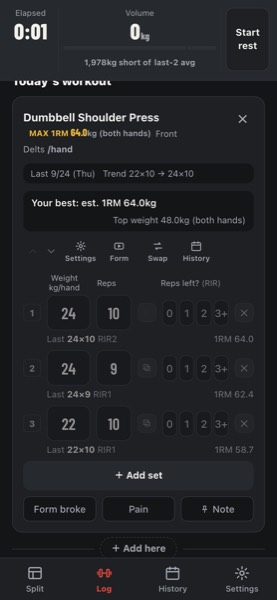
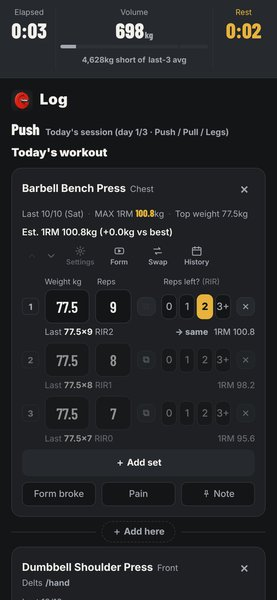
UI レビューの指摘を直し、ガイドの画像を撮り直す
- 試用の上限で止めた下書き(keep)に止めた時刻を持たせ、何日か後に購入して保存しても
  日付・時間・kcal をその時刻で締める。keep の復元では休憩の時計を戻さない
- リマインダー: 選び直した曜日・時刻をオフ→オンで上書きしない。許可を待つ間の profile の巻き戻しを防ぐ
- 履歴の開閉を添字でなく記録の date で覚える(前の日を消すと別の日が開いていた)
- メニューの行の日数は、上の部位の行に同じ日数が出ているときだけ省く
- 初回の種目は「初回」バッジ +「重さを決めて記録」(「初回」が2回出ていた)
- 英語の文言(通知の Today:、PR ×n、Achieved、曜日は3文字と読み上げ名)
- ボリューム推移の useMemo の依存に unit を足す
- guide/*-1〜3.jpg を今の画面で撮り直す
- docs/UIレビュー_2026-10.md に決めたことと残っていることを書く

Claude-Session: https://claude.ai/code/session_016X3QUMbUghUqTPUu17RQiH

diff --git a/index.html b/index.html
@@ -613,13 +613,14 @@ const dbLookup = (name) => {
   return { ...(base || { n: name }), ...(ov || {}) };
 };
 
-// 「片手=ダンベル」判定: 種目マスターに登録があればそれを最優先(保存済みの誤フラグを上書き)
 // 初めての種目のセット数(今日のメニュー・手で足した種目の両方)。以前は1行だけで、ふつう3セットやるのに毎回「＋セットを追加」を
 // 2回押していた。入力しなかった行は RIR が無いので未実施として保存されない(2026-10-18、UI レビュー A1)
 const FIRST_TIME_SETS = 3;
+// 履歴タブの自己ベストを畳んだときに出す種目数(UI レビュー B2)
 const PR_ROWS_FOLDED = 5;
-// 試用の残り回数を分割タブに出し始める残り回数。以前は3回で、保存の瞬間に初めて止められたと感じやすかった(UI レビュー B3)
+// 試用の残り回数を分割タブに出し始める残り回数(=4回目の記録から)。以前は3回で、保存の瞬間に初めて止められたと感じやすかった(UI レビュー B3)
 const TRIAL_NOTICE_FROM = 7;
+// 「片手=ダンベル」判定: 種目マスターに登録があればそれを最優先(保存済みの誤フラグを上書き)
 const resolveIsDb = (name, storedIsDb) => {
   const k = dbLookup(name);
   return k ? !!k.db : !!storedIsDb;
@@ -1031,7 +1032,7 @@ function App() {
   const [volModePicked, setVolMode] = useState(null); // day | total | weekly | muscle(null は自動。下の volMode)
   const [volDayPicked, setVolDay] = useState(null);
   const [showAllPr, setShowAllPr] = useState(false); // 自己ベストの一覧を全部出すか(最初は最近の PR_ROWS_FOLDED 件)
-  const [histOpen, setHistOpen] = useState({}); // 履歴の各日を開いたか(idx → bool)。触っていない日は最新だけ開く
+  const [histOpen, setHistOpen] = useState({}); // 履歴の各日を開いたか(記録の date → bool)。添字だと前の日を消したときにずれる。触っていない日は最新だけ開く
   const [volMuscle, setVolMuscle] = useState("");
   const [openCfg, setOpenCfg] = useState({});
   const [openNote, setOpenNote] = useState({}); // 種目メモの開閉
@@ -1094,9 +1095,10 @@ function App() {
 
   // AIモーダル
   const [draftRestored, setDraftRestored] = useState(false); // 復元した旨の通知
-  // 試用の上限で保存を止めた記録。下書きを24時間で消さない印(UI レビュー B3)。記録が空になったら外す
-  const [draftKeep, setDraftKeep] = useState(false);
-  useEffect(() => { if (today.length === 0) setDraftKeep(false); }, [today.length]);
+  // 試用の上限で保存を止めた記録。下書きを24時間で消さない印(UI レビュー B3)。記録が空になったら外す。
+  // 値は保存を止めた時刻(ms)。何日か後に購入して保存したとき、日付・時間・kcal をこの時刻で締める
+  const [draftKeep, setDraftKeep] = useState(null);
+  useEffect(() => { if (today.length === 0) setDraftKeep(null); }, [today.length]);
   // Apple Watchから合流させた操作のid(src/domain/watch.js)。下書きと一緒に保存し、
   // 保存できてからネイティブのキューを消す(ack)。アプリが落ちても二重に適用しないため。
   const [watchApplied, setWatchApplied] = useState([]);
@@ -1142,7 +1144,7 @@ function App() {
             await store.set(DRAFT_KEY, JSON.stringify({
               today, startAt, restStartAt, watchApplied, restFromWatch: restFromWatchRef.current,
               watchWorkoutFor: watchWorkoutForRef.current, watchRestFor: watchRestForRef.current, savedAt: Date.now(),
-              ...(draftKeep ? { keep: true } : {}),
+              ...(draftKeep ? { keep: draftKeep } : {}),
             }));
           }
           // 合流させたWatchの操作は、下書きに残せてから(または記録が無く捨てた後に)キューから消す
@@ -1228,12 +1230,14 @@ function App() {
         if (d?.value) {
           const draft = JSON.parse(d.value);
           // 試用の上限で保存を止めた記録(keep)は、24時間を過ぎても残す(購入するか消すまで。UI レビュー B3)
-          const fresh = draft.keep === true || (draft.savedAt && (Date.now() - draft.savedAt) < 24 * 3600 * 1000);
+          const keepAt = draft.keep ? (typeof draft.keep === "number" ? draft.keep : draft.savedAt || Date.now()) : null;
+          const fresh = keepAt != null || (draft.savedAt && (Date.now() - draft.savedAt) < 24 * 3600 * 1000);
           if (fresh && Array.isArray(draft.today) && draft.today.length > 0) {
             setToday(draft.today);
             if (draft.startAt) setStartAt(draft.startAt);
-            if (draft.keep === true) setDraftKeep(true);
-            if (draft.restStartAt) setRestStartAt(draft.restStartAt);
+            if (keepAt != null) setDraftKeep(keepAt);
+            // 保存を止めた記録はもう終わったトレーニングなので、休憩の時計は戻さない
+            else if (draft.restStartAt) setRestStartAt(draft.restStartAt);
             if (draft.restFromWatch) restFromWatchRef.current = draft.restFromWatch;
             if (draft.watchWorkoutFor) { watchWorkoutForRef.current = draft.watchWorkoutFor; setWatchLiveFor(draft.watchWorkoutFor); }
             if (draft.watchRestFor) { watchRestForRef.current = draft.watchRestFor; setWatchRestFor(draft.watchRestFor); }
@@ -1466,13 +1470,18 @@ function App() {
   const setReminder = async (patch) => {
     const next = { ...reminder, ...patch };
     if (patch.on && !reminder.on) {
-      // オンにした最初だけ、直近の記録から曜日と時刻を決める(後から変えられる)
-      Object.assign(next, suggestWorkoutReminder(workouts, Date.now()));
+      // 曜日と時刻が既定のまま(一度も選んでいない)なら、直近の記録から決める。
+      // 選び直した後にオフ→オンしても、その選択は上書きしない
+      const def = DEFAULT_PROFILE.workoutReminder;
+      if (reminder.time === def.time && reminder.days.join() === def.days.join()) {
+        Object.assign(next, suggestWorkoutReminder(workouts, Date.now()));
+      }
       const ok = await ensureRestNotificationPermission();
       setRemindPermDenied(!ok);
       if (!ok) return;
     }
-    persist({ profile: { ...profile, workoutReminder: next } });
+    // 許可ダイアログを待つ間に profile が変わっていることがあるので、最新の値に重ねる(toggleHealth と同じ)
+    persistRef.current({ profile: { ...profileRef.current, workoutReminder: next } });
   };
 
   // 使える状態のAudioContextを返す(壊れていれば再生成)
@@ -2986,8 +2995,9 @@ function App() {
   const saveWorkout = async () => {
     if (today.length === 0) return;
     setSaving(true);
-    const end = Date.now();
-    const start = startAt ?? end;
+    // 試用の上限で止めた記録(draftKeep)は、止めた時刻で締める(何日か後に購入して保存しても、その日の記録として残す)
+    const end = draftKeep != null ? Math.min(draftKeep, Date.now()) : Date.now();
+    const start = Math.min(startAt ?? end, end);
     const durationMin = Math.max(1, Math.round((end - start) / 60000));
     const exercises = today.map(ex => ({
       name: ex.name, muscle: ex.muscle || "", bwFactor: ex.bwFactor || 0, isDb: resolveIsDb(ex.name, ex.isDb), rom: resolveRom(ex.name, ex.rom), bwAtLog: profile.bodyweight,
@@ -3020,7 +3030,7 @@ function App() {
     // Web版はpurchasedが常にtrueなのでここには来ない。
     if (isTrialLimitReached(workouts.length, purchased, iapAvailable())) {
       setIapError(""); // 前回開いたときのエラーを持ち越さない
-      setDraftKeep(true); // この記録は下書きの24時間の期限で消さない
+      setDraftKeep(k => k ?? Date.now()); // この記録は下書きの24時間の期限で消さない。2回目以降は最初に止めた時刻のまま
       setShowPaywall(true);
       setSaving(false);
       return;
@@ -3865,7 +3875,7 @@ function App() {
   const volumeTrend = useMemo(() => workouts.map(w => {
     const d = new Date(w.date);
     return { date: `${d.getMonth() + 1}/${d.getDate()}`, 総ボリューム: Math.round(toU(w.exercises.reduce((a, ex) => a + exVolume(ex), 0))) };
-  }), [workouts, profile.bodyweight]);
+  }), [workouts, profile.bodyweight, unit]);
   // 週単位(月曜始まり)の合計ボリューム推移
   const weeklyVolumeTrend = useMemo(() => {
     const buckets = {};
@@ -3899,7 +3909,7 @@ function App() {
   const dayVolumeTrend = useMemo(() => workouts.filter(w => w.session === volDay).map(w => {
     const d = new Date(w.date);
     return { date: `${d.getMonth() + 1}/${d.getDate()}`, ボリューム: Math.round(toU(w.exercises.reduce((a, ex) => a + exVolume(ex), 0))) };
-  }), [workouts, volDay, profile.bodyweight]);
+  }), [workouts, volDay, profile.bodyweight, unit]);
   const muscleVolumeTrend = useMemo(() => {
     if (!volMuscle) return [];
     return workouts.map(w => {
@@ -4664,7 +4674,7 @@ function App() {
                 </>}
               </div>
               {(() => {
-                // 行ごとの「N日前」は、メニューで一番多い日数と違う種目にだけ出す(全部同じなら上の部位の行に1回出ている。UI レビュー A4)
+                // 行ごとの「N日前」は、メニューで一番多い日数と違う種目にだけ出す(上の部位の行に1回出ているので。UI レビュー A4)
                 const daysOf = (it) => {
                   if ((it.baseType ?? it.type) === "new_start") return null;
                   const last = exerciseInsight(it.prescription.name)?.date;
@@ -4672,7 +4682,9 @@ function App() {
                 };
                 const counts = new Map();
                 menuItems.forEach(it => { const d = daysOf(it); if (d != null) counts.set(d, (counts.get(d) || 0) + 1); });
-                const commonDays = [...counts.entries()].sort((a, b) => b[1] - a[1])[0]?.[0];
+                const mode = [...counts.entries()].sort((a, b) => b[1] - a[1])[0]?.[0];
+                // 上の部位の行にも同じ日数が出ているときだけ省く(部位の日数は種目の日数と別物なので、出ていなければ省かない)
+                const commonDays = todayDay?.muscles?.some(m => lastTrained(m) === mode) ? mode : undefined;
                 return menuItems.map((it, i) => {
                 const p = it.prescription;
                 const rowDays = daysOf(it);
@@ -4711,7 +4723,7 @@ function App() {
                     ) : (
                       // 前回の記録が無い種目。以前は「0kg × 0回 × 1セット」と出て、壊れて見えた(UI レビュー A1)
                       <div style={{ fontSize: 13, color: C.muted, lineHeight: 1.6 }}>
-                        {t("menu.reasonNew")}<span style={{ marginLeft: 6 }}>{t("menu.setCount", { n: p.sets })}</span>
+                        {t("menu.firstTime")}<span style={{ marginLeft: 6 }}>{t("menu.setCount", { n: p.sets })}</span>
                       </div>
                     )}
                     {/* 初めての種目は、まずフォームを見てから始められるように(改善要望 10b) */}
@@ -5837,7 +5849,7 @@ function App() {
               })}
               {rows.length > PR_ROWS_FOLDED && (
                 <button onClick={() => setShowAllPr(v => !v)} style={{ ...btn("transparent", C.text), padding: "4px 0", fontSize: 13 }}>
-                  {showAllPr ? t("pr.showLess") : t("pr.showAll", { n: rows.length })}</button>
+                  {showAllPr ? t("pr.showLess", { n: PR_ROWS_FOLDED }) : t("pr.showAll", { n: rows.length })}</button>
               )}
             </div>
             );
@@ -5972,7 +5984,7 @@ function App() {
             const d = editing ? editWorkout.draft : w;
             // 開いた日だけ人体図・画像ボタン・全セットを出す(UI レビュー B2)。以前は全部の日を広げて並べ、12回で縦に約 9,500px あった。
             // 触っていない日は、最新の日と、カレンダーで選んだ日だけ開く
-            const open = editing || (idx in histOpen ? histOpen[idx] : (selectedDate != null || idx === workouts.length - 1));
+            const open = editing || (w.date in histOpen ? histOpen[w.date] : (selectedDate != null || idx === workouts.length - 1));
             // この日に推定1RMの自己ベストを更新した種目の数(表示モードの ⚡ と同じ条件)
             const prCount = open ? 0 : w.exercises.filter(ex => {
               const best = (sets) => sets.reduce((b, s) => (s.warmup || s.assisted || !s.reps) ? b : Math.max(b, est1RM(setEff(ex, s), s.reps)), 0);
@@ -6032,7 +6044,7 @@ function App() {
 
               {/* 時間・ボリュームの行を押すと開く/たたむ */}
               {!editing && (
-                <button onClick={() => setHistOpen(o => ({ ...o, [idx]: !open }))} aria-expanded={open}
+                <button onClick={() => setHistOpen(o => ({ ...o, [w.date]: !open }))} aria-expanded={open}
                   style={{ display: "flex", flexWrap: "wrap", alignItems: "center", gap: "4px 10px", width: "100%", textAlign: "left", background: "transparent", border: "none", padding: "2px 0", marginBottom: open ? 8 : 0,
                     fontSize: 12, color: C.muted, fontFamily: "inherit", cursor: "pointer" }}>
                   {open && w.startAt && <span>{fmtTime(w.startAt)}〜{w.endAt ? fmtTime(w.endAt) : ""}</span>}
@@ -6567,11 +6579,13 @@ function App() {
                   <div role="group" aria-label={t("settings.remindDays")} style={{ display: "flex", gap: 4 }}>
                     {["cal.sun", "cal.mon", "cal.tue", "cal.wed", "cal.thu", "cal.fri", "cal.sat"].map((k, d) => {
                       const on = reminder.days.includes(d);
+                      // 2026-01-04 は日曜。英語の1文字(S/T が2つずつ)では区別できないので、英語は3文字にし、読み上げは曜日の名前にする
+                      const wd = (style) => new Date(2026, 0, 4 + d).toLocaleDateString(lang === "en" ? "en-US" : "ja-JP", { weekday: style });
                       return (
                         // 最後の1日は外せない(全部外すと、オンのまま何も知らせなくなる)
-                        <button key={k} aria-pressed={on} disabled={on && reminder.days.length === 1}
+                        <button key={k} aria-pressed={on} aria-label={wd("long")} disabled={on && reminder.days.length === 1}
                           onClick={() => setReminder({ days: on ? reminder.days.filter(x => x !== d) : [...reminder.days, d] })}
-                          style={{ ...chip(on), flex: 1, padding: "8px 0", textAlign: "center" }}>{t(k)}</button>
+                          style={{ ...chip(on), flex: 1, padding: "8px 0", textAlign: "center" }}>{lang === "en" ? wd("short") : t(k)}</button>
                       );
                     })}
                   </div>

diff --git a/src/domain/i18n.js b/src/domain/i18n.js
@@ -247,6 +247,7 @@ const STRINGS = {
   "menu.reasonPrev":   { ja: "{date}の記録です。",     en: "From your {date} session." },
   "menu.reasonPrevFallback": { ja: "前回",             en: "last" },
   "menu.reasonNew":    { ja: "初回。軽めの重量で動作を確認しましょう。", en: "First time. Start light and check your form." },
+  "menu.firstTime":    { ja: "重さを決めて記録",       en: "Pick a weight and log" },
   "menu.assistedShort": { ja: "補:",                   en: "A:" },
   "menu.warmupShort":  { ja: "W:",                     en: "W:" },
   "menu.perHand":      { ja: "(片手)",                 en: "(per hand)" },
@@ -479,12 +480,12 @@ const STRINGS = {
   "pr.maxWeight":      { ja: "PR(最大重量)",           en: "PR (top weight)" },
   "pr.updatedToday":   { ja: "本日1RM更新",            en: "1RM updated today" },
   "pr.stale":          { ja: "1RM {n}日間未更新",      en: "1RM unchanged for {n}d" },
-  "pr.achievedOnly":  { ja: "{date}に達成",           en: "Set {date}" },
+  "pr.achievedOnly":  { ja: "{date}に達成",           en: "Achieved {date}" },
   "pr.perHand":       { ja: "片手 {w}{unit}",          en: "{w}{unit} per hand" },
   "pr.showAll":       { ja: "すべて表示({n}種目)",   en: "Show all ({n})" },
-  "pr.showLess":      { ja: "最近の5種目だけにする",   en: "Show recent 5" },
+  "pr.showLess":      { ja: "最近の{n}種目だけにする", en: "Show recent {n}" },
   "history.exCount":  { ja: "{n}種目",                 en: "{n} exercises" },
-  "history.prCount":  { ja: "自己ベスト {n}",          en: "{n} PR" },
+  "history.prCount":  { ja: "自己ベスト {n}",          en: "PR ×{n}" },
   "pr.weightByReps":   { ja: "{w}{unit}×{reps}回",     en: "{w}{unit} × {reps}" },
 
   // ---- ペイウォール(記録タブ、試用10回を超えたとき) ----
@@ -553,8 +554,8 @@ const STRINGS = {
   "settings.remindDays": { ja: "曜日",                  en: "Days" },
   "settings.remindTime": { ja: "時刻",                  en: "Time" },
   "remind.body":       { ja: "今日はトレーニングの日。前回の記録を超えにいきましょう。", en: "Training day. Go beat your last session." },
-  "remind.bodyDay":    { ja: "今日は {day} の日。前回の自分を超えにいきましょう。", en: "Today is {day}. Go beat your last session." },
-  "remind.bodyDayPrev": { ja: "今日は {day} の日。前回 {ex} {w}×{r}", en: "Today is {day}. Last time: {ex} {w}×{r}" },
+  "remind.bodyDay":    { ja: "今日は {day} の日。前回の自分を超えにいきましょう。", en: "Today: {day}. Go beat your last session." },
+  "remind.bodyDayPrev": { ja: "今日は {day} の日。前回 {ex} {w}×{r}", en: "Today: {day}. Last time: {ex} {w}×{r}" },
   "settings.restMinutes": { ja: "知らせる経過時間(複数選べます)", en: "Alert after (choose any)" },
   "settings.soundDesc": { ja: "インターバル中、下で選んだ経過時間に知らせます。通知を許可しておくと、アプリを閉じていても届き、Apple Watchを着けていれば手元でも気づけます。", en: "Alerts you at the times you pick below during your rest. If you allow notifications, they arrive even when the app is closed — and on your wrist if you wear an Apple Watch." },
   // 通知音もアプリ内の音も、iPhoneのサイレントスイッチには従う。以前は「許可していない場合」に

diff --git a/docs/UIレビュー_2026-10.md b/docs/UIレビュー_2026-10.md
@@ -1,0 +1,36 @@
+# UI レビュー(2026-10-18)の実装
+
+提案の本文と撮影した画面は、プロジェクトの共有フォルダの `ux-review-2026-10-18/README.md`(北村さん「上位1から4と提案してもらった全て対応してください」)。
+見立ては「アプリの価値(前回の記録が横に並ぶ)は同じ Day の2回目で初めて見える。1回目を迷わず終えて、2回目に戻ってくるまでを短くする」。
+
+## 決めたこと
+- **A1 初回の種目は 0kg × 0回 を3行**(`FIRST_TIME_SETS`)。入力しなかった行は RIR が無いので未実施として捨てられる。メニューは「初回」バッジ +「重さを決めて記録(3セット)」
+- **A2 記録前は「この内容で記録を開始」が主役(黄)、AIコーチは灰色**。記録中はセッションのカードを1行に畳み、バックアップの帯も出さない(保存の後に出る)
+- **A3-1 お疲れ様の画面に「次は Pull」**。記録が少ないうち(その Day の1回目、分割なしなら最初の1回)だけ「次にやると横に並ぶ」の一言。通知が使える端末でリマインダーがオフなら設定への導線
+- **A3-2 トレーニング日のお知らせ**(設定タブ、ネイティブだけ)。端末内のローカル通知で、アプリから何も送らない方針は崩れない。
+  - 28日先まで1回ずつ予約する(繰り返し予約にしないのは、その日にもう保存していたら知らせないため)。ID は 5100〜5127(休憩は 4200〜4215)。起動・保存・設定変更のたびに積み直す
+  - 文面は「今日は Push の日。前回 ベンチプレス 77.5×9」
+  - 初めてオンにしたときは、直近28日で2回以上やった曜日と、いちばん多い開始時刻を入れる。一度選び直した曜日・時刻は、オフ→オンしても上書きしない
+- **A4 前回の数字は本文と同じ色・太さ**。日数はセッションのカードに出し、行には、メニューで一番多い日数と違う種目にだけ出す(その日数が上の部位の行に出ていないときは省かない)
+- **B1 ボリューム推移の既定は「Day別」**(分割で記録がある人)。分割が無い人は今までどおり「トータル」
+- **B2 履歴の各日は畳む**。開くのは、最新の日・カレンダーで選んだ日・編集中の日だけ。開閉は記録の date で覚える。自己ベストは「履歴」の上へ移し、最近更新した順に5種目、残りは「すべて表示」。「未更新」は30日以上のときだけ。ダンベルは「片手 29.0kg」も添える(C5)
+- **B3 購入画面**: 見出しは「無料の10回を使い切りました」で、10回の成果(自己ベストの更新回数・総ボリューム)を出す。試用の残りは残り7回(4回目の記録)から出す。
+  - **11回目は今までどおり保存の前に止め、その日の下書きを残す**(北村さんの判断、2026-10-18)。下書きは24時間で消さず、購入して保存するか、消すまで残る(下書きの `keep`)
+  - `keep` には保存を止めた時刻が入っていて、何日か後に購入して保存しても、記録の日付・時間・kcal はその時刻で締める(レビューで見つかった。そのままだと購入した日の記録になり、時間が数千分になった)。休憩の時計は戻さない
+- **B4 RIR を入れて休憩のパネルが出たら、次のセット行がパネルの上に見えるところまで送る**
+- **C1 分割タブ**: ローテーションの説明は記録が1回以上あるときだけ。「分割を削除」は「変更 / 作り直す」の中の一番下。空の Day が2つ以上あれば「N日分をまとめておまかせで入れる」を1つ(Day ごとのおまかせは灰色)
+- **C2 直近7日間の部位別で、減った量は灰色**(赤は主要操作と削除の色)
+- **C3 初回ガイドは4ページ**(ようこそ / 分割 / 前回と比べる(RIR の説明込み) / AIコーチと Watch)。画像 `guide/*-1〜3.jpg` は 2026-10-18 の画面で撮り直した。`*-4〜6.jpg` は使っていないが、テストと `APP_ASSETS` が1〜7を前提にしているので残した
+- **C4 版番号は設定タブの一番下**(`tests/version.test.js` の文言も合わせた)
+
+## 確かめたこと
+- `npm test`(887件)。Web 版(8765)を Playwright で 390×844、日英で開き、初回の流れ・2周目(PPL 12回)・休憩パネル・お疲れ様・履歴・設定を撮った。ページのエラーは無し
+- リマインダーは `window.Capacitor` の偽物を入れて、設定の表示と予約の中身(12件、ID 5100〜、文面)を確認
+- 止めた下書き(`keep`)を3日後に開いて保存し、日付が止めた日・時間50分のまま入ることを確認
+
+## 残っていること
+- **シミュレータで撮る**(プロジェクトの決まり)。特に、リマインダーの許可ダイアログと実際の通知、購入画面の成果の表示、B4 のスクロールと上部バーの出入りが重ならないか(過去に下端で二重に送ったことがある)
+- B4 はスーパーセットのとき、DOM 上の次の行に送る(次にやるセットとは限らない)
+- 履歴を編集して前回の数字が変わっても、リマインダーの文面は次の起動・保存まで古いまま
+- **lb で使うと、前回と同じ重量でも「自己ベスト」が出る**(今回の変更とは別の、前からの不具合)。77.5kg が入力欄で 171lb に丸められ、保存のときに 77.56kg に戻るため。英語のガイド画像は kg で撮った
+- 版(CACHE / APP_VERSION)は上げていない。iOS のビルドの前に、印を作ってから上げる

diff --git a/.claude/agent-memory/reviewer/kurabell-draft-keep-stale-times.md b/.claude/agent-memory/reviewer/kurabell-draft-keep-stale-times.md
@@ -1,0 +1,18 @@
+---
+name: kurabell-draft-keep-stale-times
+description: 下書きを長く生かす変更(2026-10-18 B3 draft.keep)では、復元後の保存で date/durationMin/kcal が保存時刻基準になり記録が壊れる
+metadata:
+  type: project
+---
+
+saveWorkout は `end = Date.now()`、`start = startAt`、`date = end` で記録を作る。下書きの寿命を延ばす変更
+(d5c1d38 の試用上限 `draft.keep`、24時間の期限を外す)を入れると、上限で止めた日から数日後に購入して保存した記録が
+「購入した日の日付」「durationMin が数千分」「kcal が数万」で永久に残る。restStartAt も数日前のまま復元され、休憩パネルが巨大な時計になる。
+24時間以内でも同じ形は以前からあったが、keep はまさにその経路(迷って翌日以降に買う)を狙っている。
+
+**Why:** 記録の日付は履歴・カレンダー・PR達成日・stalestDayIndex のキー。durationMin/kcal は保存後に直す手段がない。
+
+**How to apply:** 下書きの保持期間・復元条件を触る差分では、復元→保存の経路で startAt/endAt/date/durationMin と restStartAt が
+どの時刻基準になるかを確認する。関連: [[kurabell-error-banner-single-slot]] [[kurabell-day-name-is-history-key]]
+
+**対処済み(2026-10-18):** `draft.keep` に保存を止めた時刻(ms)を入れ、saveWorkout は `draftKeep` があればその時刻で `end` を締める。keep の復元では restStartAt を戻さない。

diff --git a/.claude/agent-memory/reviewer/MEMORY.md b/.claude/agent-memory/reviewer/MEMORY.md
@@ -37,3 +37,4 @@
 - [バー出入りのスクロール補正](kurabell-scroll-compensation-clamp.md) — 下端では文書の縮みでscrollYが先にクランプされ差分scrollByが二重(実測)/上端でheaderがバー裏(2026-10-14)
 - [Watch休憩の自前振動](kurabell-watch-rest-self-haptic.md) — 2026-10-15: play()後に予備通知を消す/willPresentで抑止。play無効・タイマー遅延で無音に。(23)の1分16秒
 - [window.openとネイティブ](kurabell-window-open-native.md) — Capacitor 6.2.1でwindow.openはcreateWebViewWith→UIApplication.open(確認済)。iOSのmailtoは既定メールアプリ
+- [下書きkeepと保存時刻](kurabell-draft-keep-stale-times.md) — 下書きの寿命を延ばすと、保存時に date/duration/kcal が保存時刻基準で壊れる(d5c1d38 B3)
